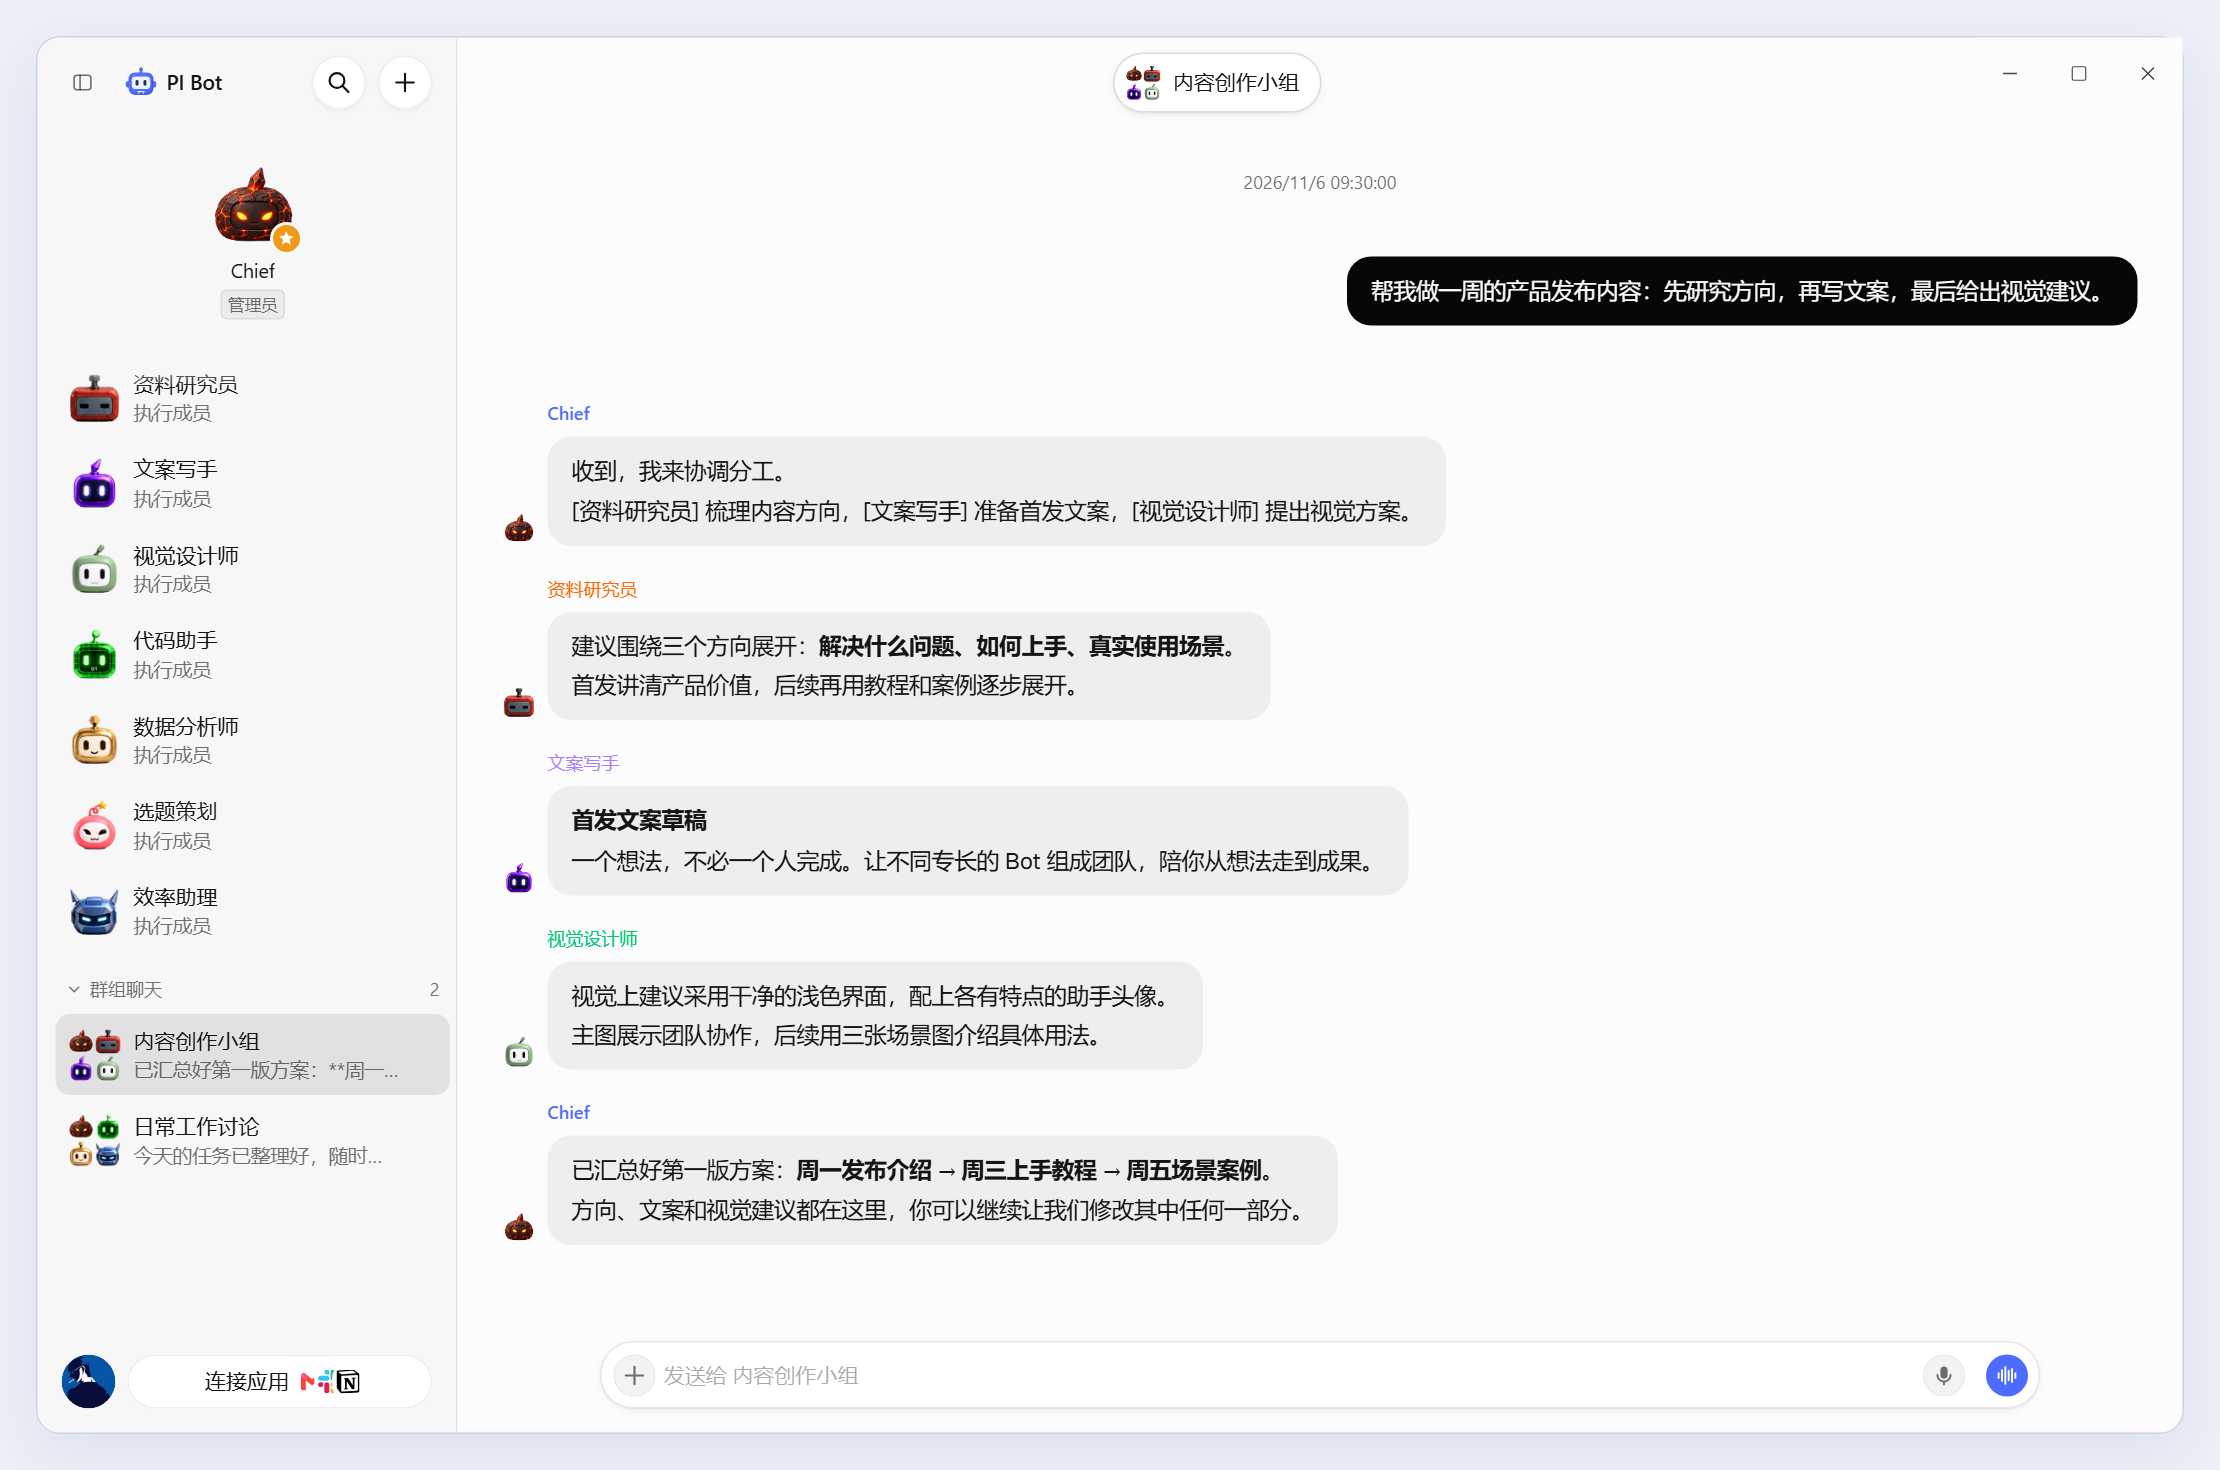
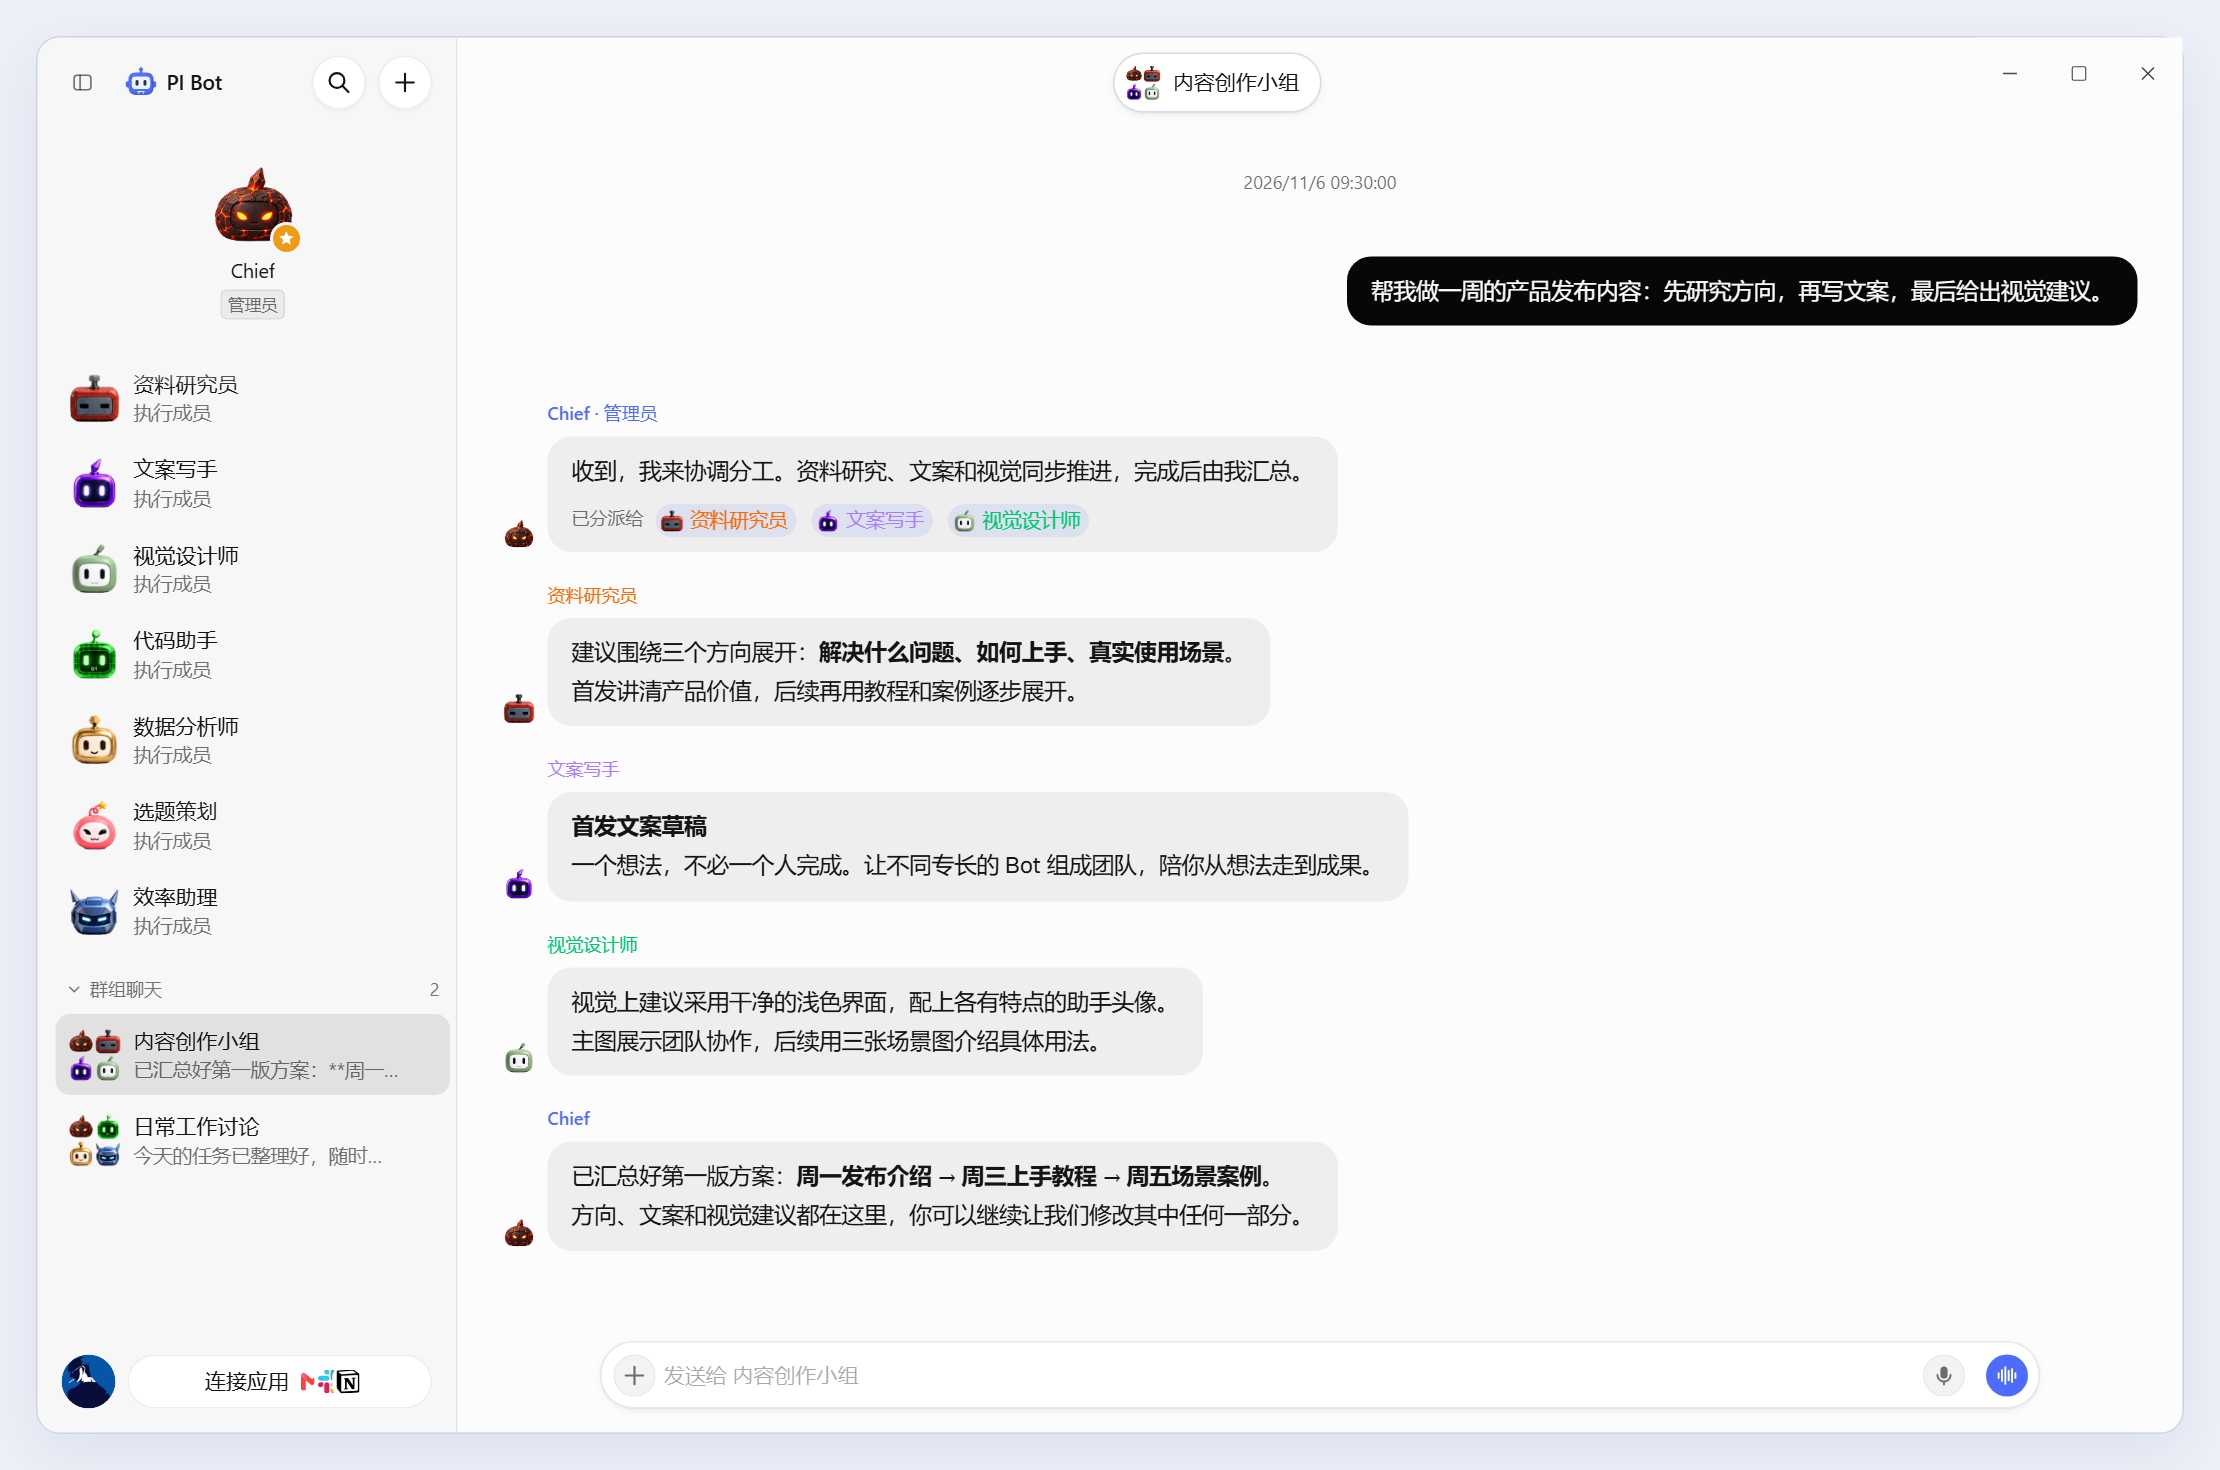
docs: add interface gallery and correct coordinator assignment badges

diff --git a/README.en.md b/README.en.md
@@ -9,6 +9,30 @@ PI Bot is an independently maintained adaptation of [DS Bot](https://github.com/
 </p>
 <p align="center"><sub>Actual plugin interface with simulated conversation content. Bots with different specialties work together in one group chat.</sub></p>
 
+<table>
+  <tr>
+    <td width="50%" align="center">
+      <a href="docs/images/pi-bot-library.png"><img src="docs/images/pi-bot-library.png" width="720" alt="A writing assistant prepares a content plan while its Library panel organizes memory, skills and working folders." /></a><br />
+      <strong>A library for each assistant</strong><br /><sub>Keep memory, skills and working folders close to the conversation.</sub>
+    </td>
+    <td width="50%" align="center">
+      <a href="docs/images/pi-bot-memory.png"><img src="docs/images/pi-bot-memory.png" width="720" alt="The long-term memory panel shows a summary, categorized entries, sources and supporting quotes." /></a><br />
+      <strong>Memory you can inspect</strong><br /><sub>Review preferences and project agreements, check sources, edit or remove entries.</sub>
+    </td>
+  </tr>
+  <tr>
+    <td width="50%" align="center">
+      <a href="docs/images/pi-bot-apps.png"><img src="docs/images/pi-bot-apps.png" width="720" alt="The Apps page groups third-party services by category and supports search and custom MCP servers." /></a><br />
+      <strong>Connect apps and tools</strong><br /><sub>Browse the catalog, authorize your own accounts and choose which Bots can use them.</sub>
+    </td>
+    <td width="50%" align="center">
+      <a href="docs/images/pi-bot-avatars.png"><img src="docs/images/pi-bot-avatars.png" width="720" alt="The avatar editor offers distinct robot characters, image uploads and a shared avatar library." /></a><br />
+      <strong>A distinct look for every Bot</strong><br /><sub>Pick a character or upload your own image to recognize your team at a glance.</sub>
+    </td>
+  </tr>
+</table>
+<p align="center"><sub>Click any image to view it full size. All screenshots use the actual plugin interface with simulated chat and memory data. Catalog listings do not indicate completed authorization.</sub></p>
+
 The latest stable release is **0.3.107**, combining changes from 0.3.102 through 0.3.107. See the [combined release notes](docs/RELEASE-0.3.107.md) and [download the plugin](https://github.com/vsd269/PI-Bot/releases/latest).
 
 ## New in 0.3.107
